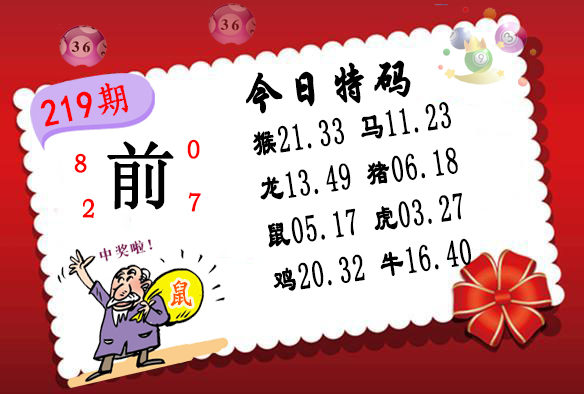
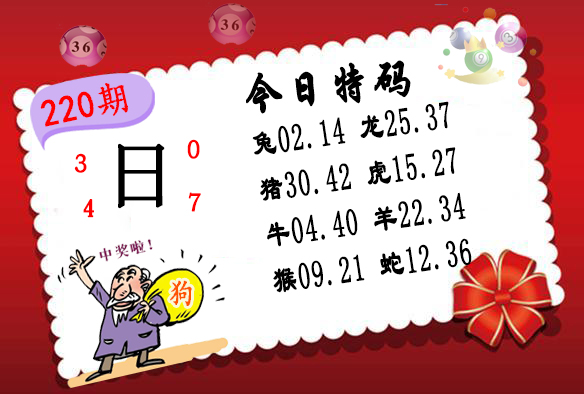
Update:  2024.08.07 13:20:35

diff --git a/Script/Src/xjw/杀两肖图.js b/Script/Src/xjw/杀两肖图.js
@@ -57,8 +57,8 @@ document.writeln("					<td height=\'40\' style=\'box-sizing: border-box;\'>");
 document.writeln("			<p align=\'center\' style=\'box-sizing: border-box; padding: 0px; margin: 0px;\'>");
 document.writeln("			<font size=\'4\' style=\'margin: 0px; padding: 0px;\'>");
 document.writeln("			220期玄机网禁两肖<font color=\'#FF0000\'>【猪鸡】</font>特开<font color=\'#0000FF\'>？00</font>准<br>");
-document.writeln("			220期澳门杀两肖图<font color=\'#FF0000\'>【更新】</font>特开<font color=\'#0000FF\'>？00</font>准<br>");
-document.writeln("			220期澳门图库禁肖<font color=\'#FF0000\'>【更新】</font>特开<font color=\'#0000FF\'>？00</font>准</font></font></p></td>");
+document.writeln("			220期澳门杀两肖图<font color=\'#FF0000\'>【蛇羊】</font>特开<font color=\'#0000FF\'>？00</font>准<br>");
+document.writeln("			220期澳门图库禁肖<font color=\'#FF0000\'>【鸡猪】</font>特开<font color=\'#0000FF\'>？00</font>准</font></font></p></td>");
 document.writeln("		</tr>");
 document.writeln("<!--推广-->");
 document.writeln("				<tr style=\'box-sizing: border-box;\'>");
